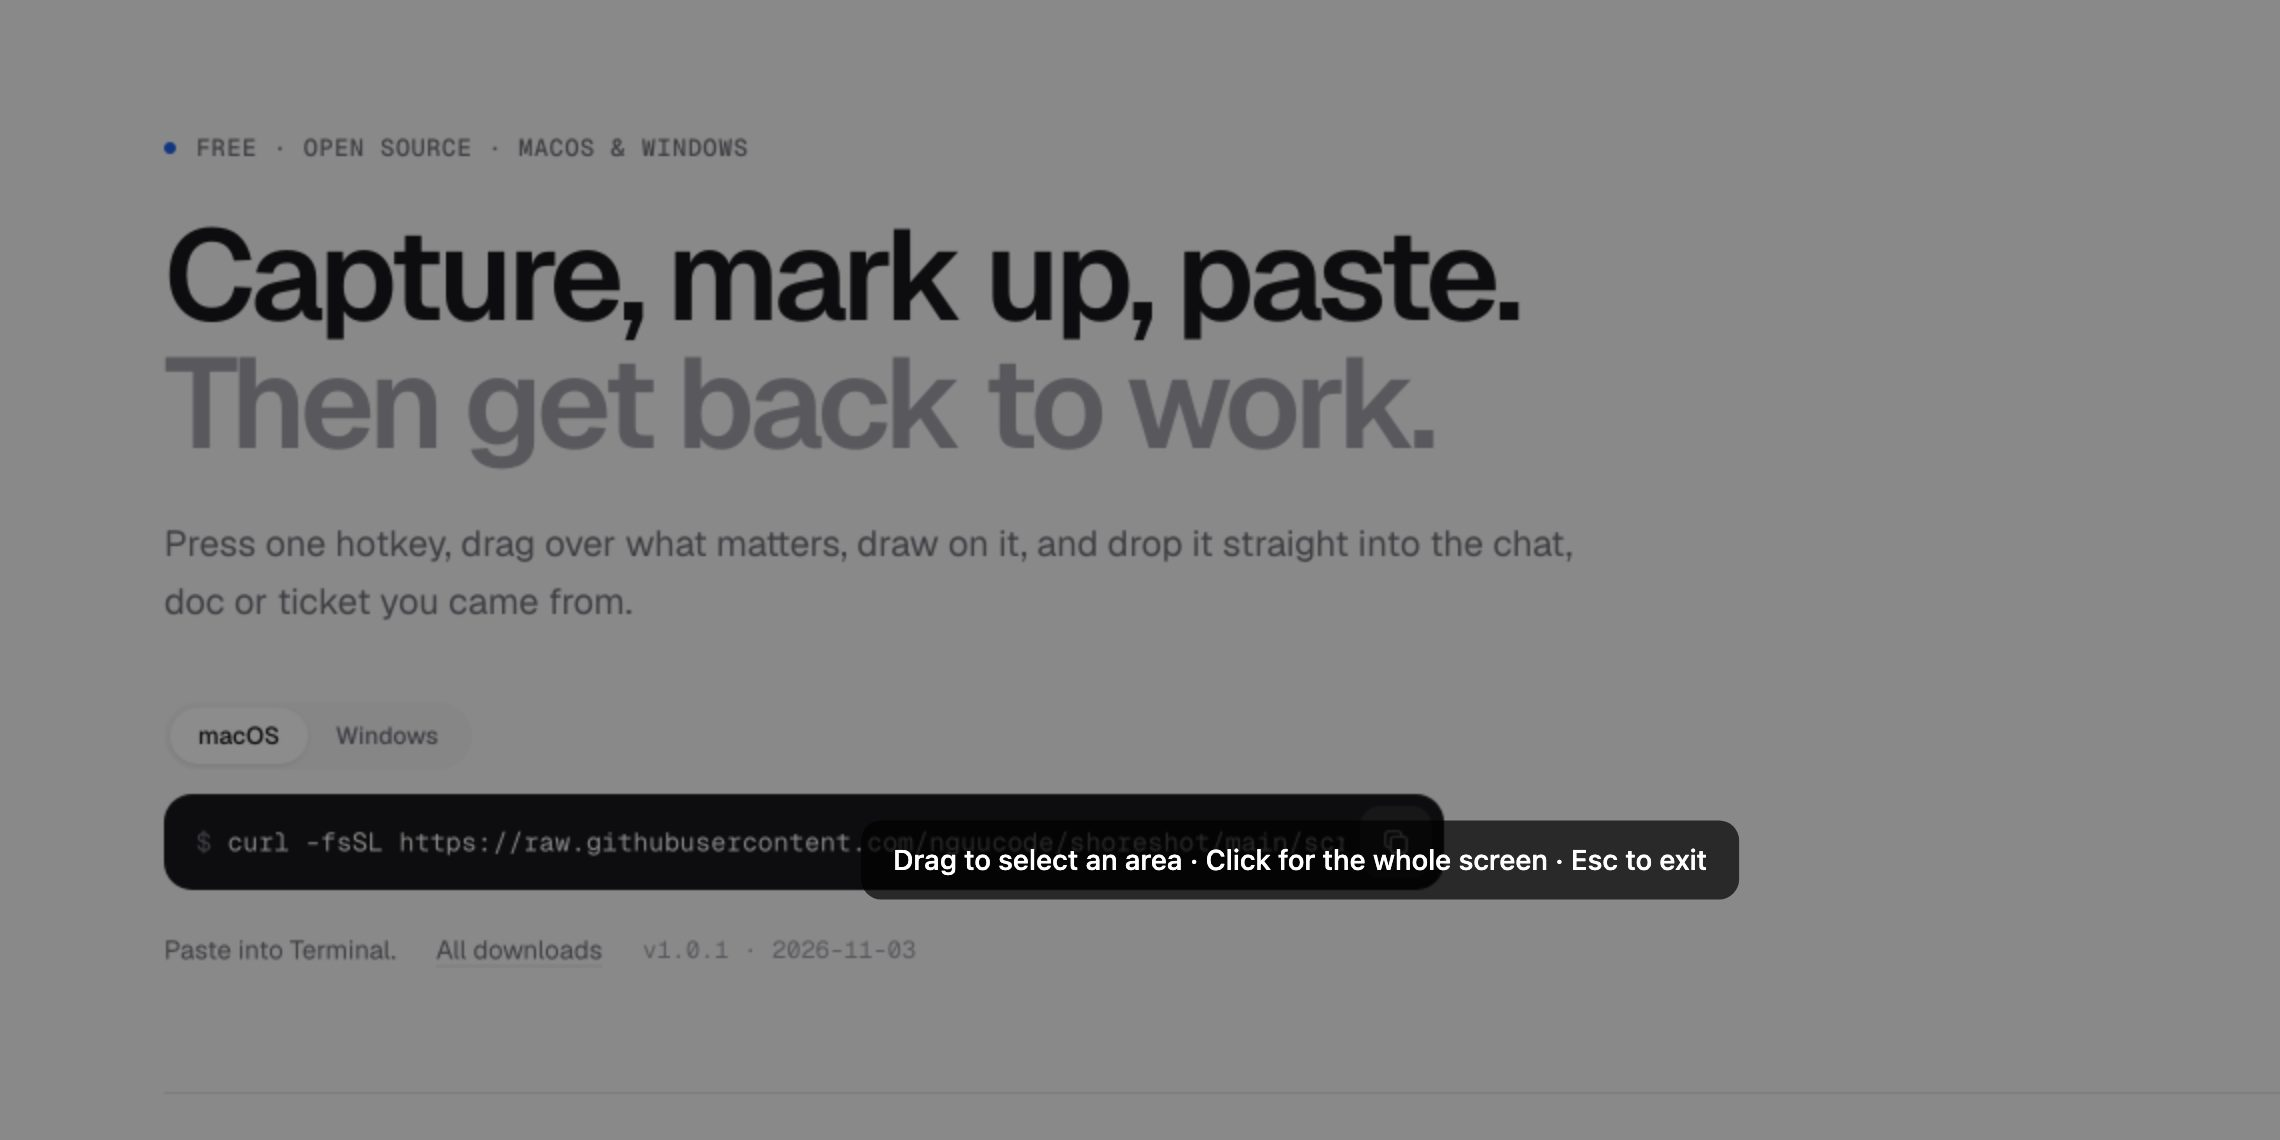
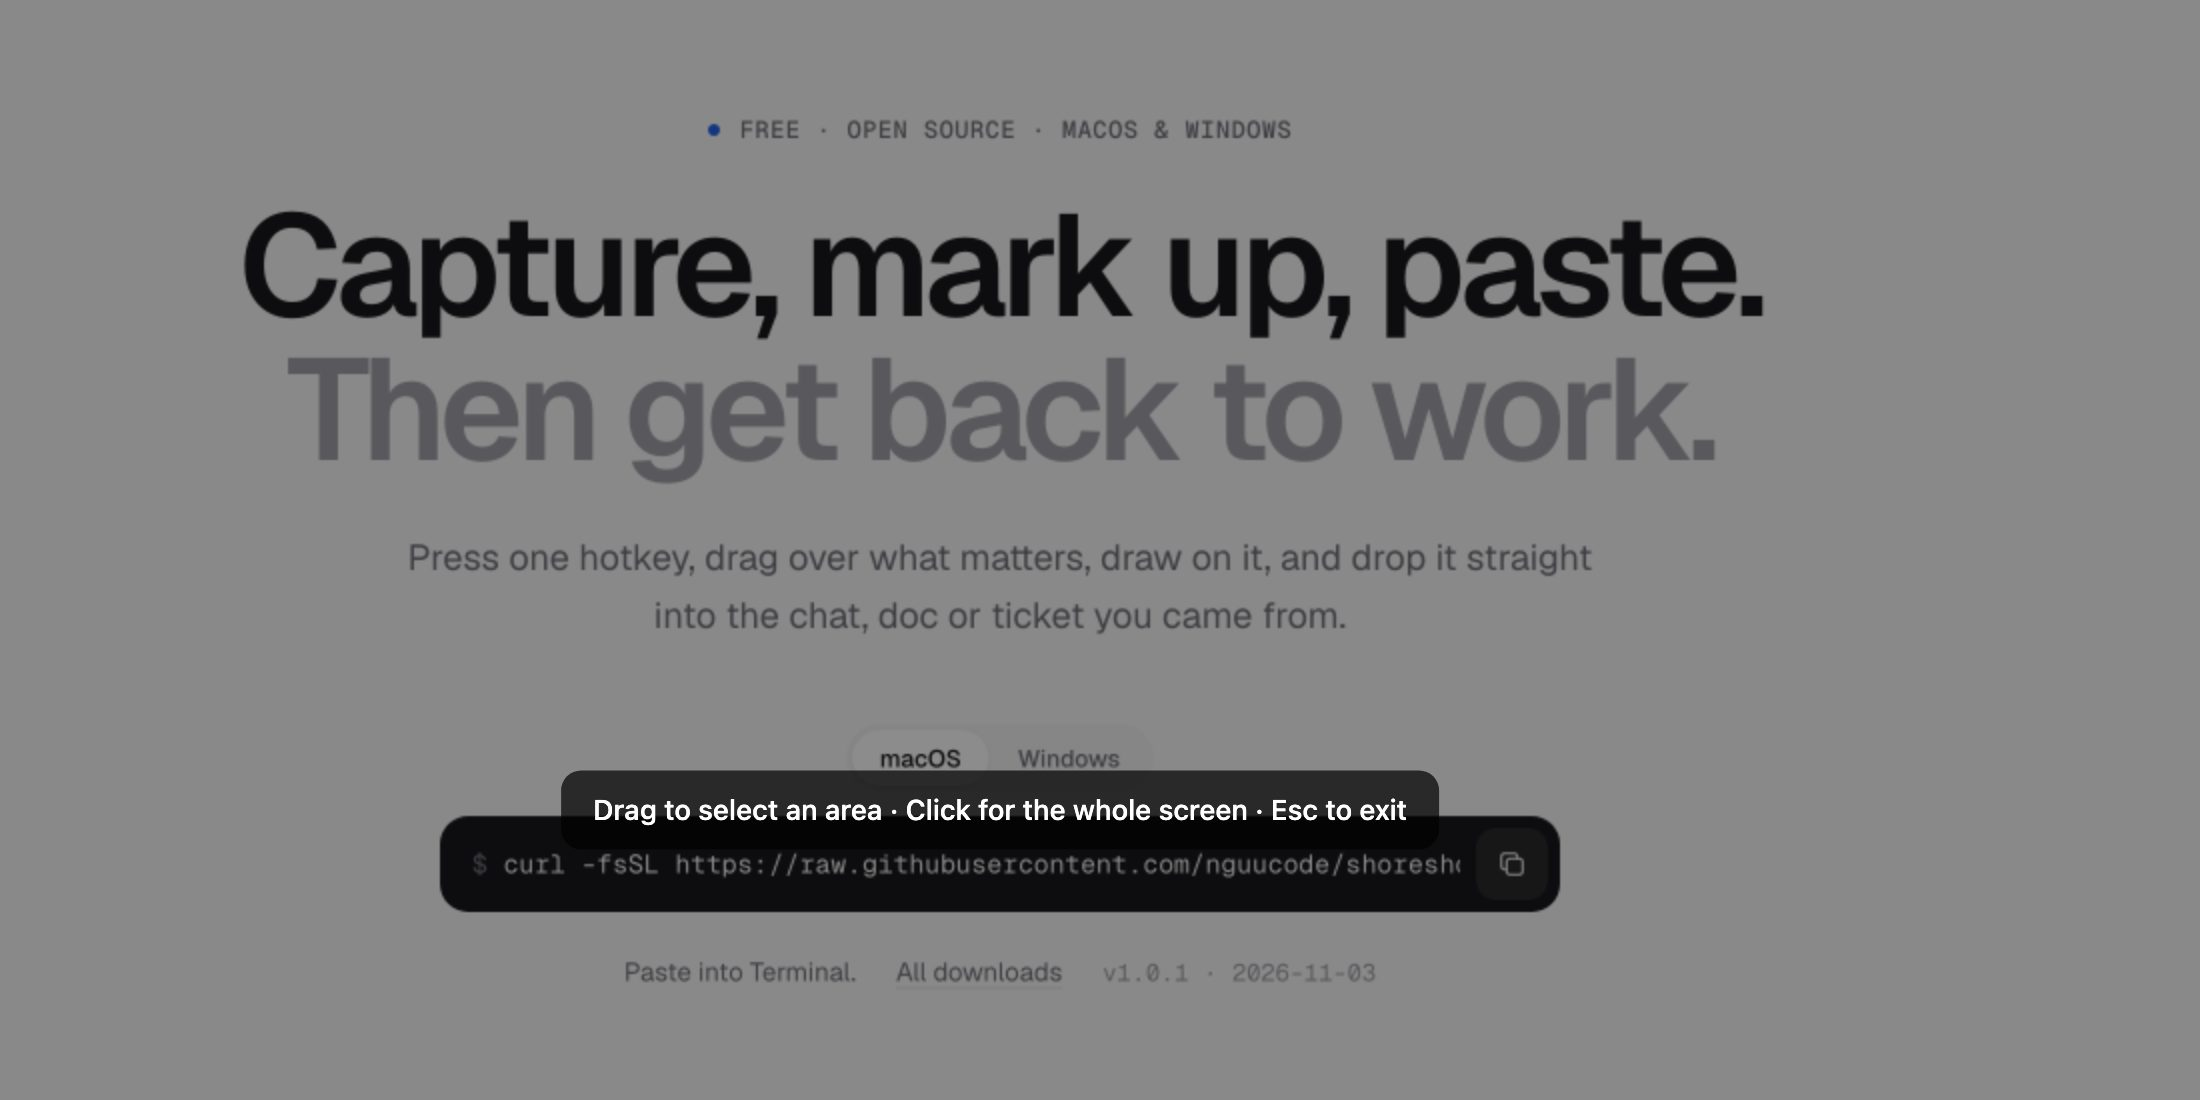
Website: centered layout

diff --git a/docs/index.html b/docs/index.html
@@ -50,19 +50,20 @@ a { color: inherit; text-decoration: none; }
 .btn svg { width: 16px; height: 16px; }
 
 /* Hero */
-.hero { display: grid; grid-template-columns: minmax(0, 5fr) minmax(0, 7fr); gap: 56px; align-items: center; padding: 72px 0 120px; }
-.eyebrow { font: 500 12px var(--mono); letter-spacing: .04em; text-transform: uppercase; color: var(--muted); display: flex; align-items: center; gap: 10px; }
+.hero { padding: 88px 0 120px; text-align: center; }
+.eyebrow { font: 500 12px var(--mono); letter-spacing: .04em; text-transform: uppercase; color: var(--muted); display: flex; justify-content: center; align-items: center; gap: 10px; }
 .eyebrow i { width: 6px; height: 6px; border-radius: 50%; background: var(--accent); box-shadow: 0 0 0 0 color-mix(in srgb, var(--accent) 50%, transparent); animation: pulse 2.4s infinite; }
 @keyframes pulse { 70% { box-shadow: 0 0 0 8px transparent; } 100% { box-shadow: 0 0 0 0 transparent; } }
-h1 { font-size: clamp(40px, 5.2vw, 64px); line-height: 1; letter-spacing: -.045em; font-weight: 600; margin: 24px 0 24px; }
-h1 span { color: var(--faint); }
-.lede { font-size: 18px; color: var(--muted); max-width: 44ch; margin: 0 0 36px; }
+h1 { font-size: clamp(40px, 6vw, 72px); line-height: 1; letter-spacing: -.045em; font-weight: 600; margin: 24px auto; }
+h1 span { display: block; color: var(--faint); }
+h1, h2 { text-wrap: balance; }
+.lede { font-size: 18px; color: var(--muted); max-width: 52ch; margin: 0 auto 40px; }
 
-.install { max-width: 480px; }
+.install { max-width: 560px; margin: 0 auto; }
 .seg { display: inline-flex; padding: 3px; border-radius: 999px; background: var(--soft); margin-bottom: 12px; }
 .seg button { font: 500 12px var(--font); height: 28px; padding: 0 14px; border: 0; border-radius: 999px; background: none; color: var(--muted); cursor: pointer; transition: background .2s, color .2s; }
 .seg button[aria-selected="true"] { background: var(--raised); color: var(--fg); box-shadow: 0 1px 2px rgba(0, 0, 0, .08); }
-.cmd { display: flex; align-items: center; gap: 8px; background: var(--code-bg); color: var(--code-fg); border-radius: 14px; padding: 6px 6px 6px 16px; box-shadow: inset 0 1px 0 rgba(255, 255, 255, .06); }
+.cmd { text-align: left; display: flex; align-items: center; gap: 8px; background: var(--code-bg); color: var(--code-fg); border-radius: 14px; padding: 6px 6px 6px 16px; box-shadow: inset 0 1px 0 rgba(255, 255, 255, .06); }
 .cmd code { flex: 1; min-width: 0; font: 13px var(--mono); overflow-x: auto; white-space: nowrap; scrollbar-width: none; }
 .cmd code::-webkit-scrollbar { display: none; }
 .cmd code::before { content: "$ "; color: #71717a; }
@@ -73,20 +74,20 @@ h1 span { color: var(--faint); }
 .copy .done { display: none; }
 .copy.ok .idle { display: none; }
 .copy.ok .done { display: block; }
-.after { display: flex; flex-wrap: wrap; align-items: center; gap: 8px 20px; margin-top: 20px; font-size: 13px; color: var(--muted); }
+.after { display: flex; flex-wrap: wrap; justify-content: center; align-items: center; gap: 8px 20px; margin-top: 20px; font-size: 13px; color: var(--muted); }
 .after a { text-decoration: underline; text-decoration-color: var(--line); text-underline-offset: 3px; }
 .after a:hover { color: var(--fg); }
 .ver { font-family: var(--mono); font-size: 12px; color: var(--faint); }
 
 /* Demo: three real frames of the overlay. Frame 1 is revealed like a selection being dragged, frame 2 fades in the annotations. */
-.stage { position: relative; margin-right: calc(-1 * max(32px, (100vw - 1200px) / 2 + 32px) + 32px); }
+.stage { position: relative; max-width: 1040px; margin: 80px auto 0; }
 .demo { position: relative; margin: 0; aspect-ratio: 2 / 1; border-radius: 18px; overflow: hidden; box-shadow: var(--shadow); background: #3f3f46; }
 .demo img { position: absolute; inset: 0; width: 100%; height: 100%; display: block; }
 .demo .f1 { animation: drag 10s infinite; }
 .demo .f2 { animation: mark 10s infinite; }
 @keyframes drag {
-  0%, 12% { clip-path: inset(8.77% 94.74% 91.23% 5.26%); opacity: 1; animation-timing-function: var(--ease); }
-  34%, 35.9% { clip-path: inset(8.77% 14.04% 10.53% 5.26%); }
+  0%, 12% { clip-path: inset(6.36% 92.73% 93.64% 7.27%); opacity: 1; animation-timing-function: var(--ease); }
+  34%, 35.9% { clip-path: inset(6.36% 16.36% 6.36% 7.27%); }
   36%, 90% { clip-path: inset(0); opacity: 1; }
   96%, 100% { clip-path: inset(0); opacity: 0; }
 }
@@ -94,11 +95,11 @@ h1 span { color: var(--faint); }
 .track { position: absolute; inset: 0; pointer-events: none; animation: track 10s infinite; }
 .track svg { position: absolute; left: 0; top: 0; width: 22px; height: 22px; margin: -11px 0 0 -11px; color: #fff; filter: drop-shadow(0 1px 1px rgba(0, 0, 0, .6)); }
 @keyframes track {
-  0%, 12% { transform: translate(5.26%, 8.77%); opacity: 1; animation-timing-function: var(--ease); }
-  34% { transform: translate(85.96%, 89.47%); opacity: 1; }
-  38%, 100% { transform: translate(85.96%, 89.47%); opacity: 0; }
+  0%, 12% { transform: translate(7.27%, 6.36%); opacity: 1; animation-timing-function: var(--ease); }
+  34% { transform: translate(83.64%, 93.64%); opacity: 1; }
+  38%, 100% { transform: translate(83.64%, 93.64%); opacity: 0; }
 }
-.steps { display: flex; gap: 6px; margin-top: 20px; font: 12px var(--mono); color: var(--faint); }
+.steps { display: flex; justify-content: center; gap: 6px; margin-top: 20px; font: 12px var(--mono); color: var(--faint); }
 .steps span { padding: 6px 10px; border-radius: 999px; transition: color .3s; }
 .steps span:nth-child(1) { animation: s1 10s infinite; }
 .steps span:nth-child(2) { animation: s2 10s infinite; }
@@ -109,9 +110,12 @@ h1 span { color: var(--faint); }
 @keyframes s3 { 0%, 45% { color: var(--faint); background: transparent; } 46%, 68% { color: var(--fg); background: var(--soft); } 70%, 100% { color: var(--faint); background: transparent; } }
 @keyframes s4 { 0%, 69% { color: var(--faint); background: transparent; } 70%, 94% { color: var(--fg); background: var(--soft); } 96%, 100% { color: var(--faint); background: transparent; } }
 
-/* Sections: label column on the left, content on the right. */
-.row { display: grid; grid-template-columns: minmax(0, 4fr) minmax(0, 8fr); gap: 56px; padding: 96px 0; border-top: 1px solid var(--line); }
-.row h2 { font-size: 32px; line-height: 1.1; letter-spacing: -.035em; font-weight: 600; margin: 12px 0 0; position: sticky; top: 96px; }
+/* Sections: centered heading above a centered column of content. */
+.row { padding: 112px 0; border-top: 1px solid var(--line); }
+.row > :first-child { text-align: center; margin-bottom: 56px; }
+.row > :last-child { max-width: 760px; margin: 0 auto; }
+.row > .list { max-width: 880px; }
+.row h2 { font-size: clamp(28px, 3.6vw, 40px); line-height: 1.1; letter-spacing: -.035em; font-weight: 600; margin: 12px 0 0; }
 .idx { font: 12px var(--mono); color: var(--faint); }
 .list { display: grid; grid-template-columns: 1fr 1fr; column-gap: 48px; }
 .list div { padding: 22px 0; border-top: 1px solid var(--line); }
@@ -137,14 +141,14 @@ details[open] summary::after { transform: rotate(-135deg) translateY(-3px); }
 details p, details pre { margin: 0 0 18px; color: var(--muted); font-size: 15px; max-width: 62ch; }
 details pre { font: 12.5px var(--mono); color: var(--fg); background: var(--soft); padding: 12px 14px; border-radius: 10px; overflow-x: auto; white-space: pre; }
 
-.cta { padding: 120px 0 128px; border-top: 1px solid var(--line); }
-.cta h2 { font-size: clamp(36px, 5vw, 56px); line-height: 1.05; letter-spacing: -.045em; font-weight: 600; margin: 0 0 32px; max-width: 14ch; }
-.cta .btns { display: flex; gap: 12px; flex-wrap: wrap; }
+.cta { padding: 128px 0 136px; border-top: 1px solid var(--line); text-align: center; }
+.cta h2 { font-size: clamp(36px, 5vw, 56px); line-height: 1.05; letter-spacing: -.045em; font-weight: 600; margin: 0 auto 36px; max-width: 16ch; }
+.cta .btns { display: flex; justify-content: center; gap: 12px; flex-wrap: wrap; }
 .btn.ghost { border: 1px solid var(--line); }
 .btn.ghost:hover { background: var(--soft); }
 
 footer { border-top: 1px solid var(--line); padding: 28px 0 40px; font-size: 13px; color: var(--muted); }
-footer .wrap { display: flex; flex-wrap: wrap; justify-content: space-between; gap: 12px 24px; }
+footer .wrap { display: flex; flex-wrap: wrap; justify-content: center; gap: 12px 24px; }
 footer nav { display: flex; gap: 20px; }
 footer a:hover { color: var(--fg); }
 
@@ -155,10 +159,10 @@ footer a:hover { color: var(--fg); }
 .reveal.in { opacity: 1; transform: none; }
 
 @media (max-width: 960px) {
-  .hero { grid-template-columns: minmax(0, 1fr); padding: 40px 0 80px; gap: 48px; }
-  .stage { margin-right: 0; }
-  .row { grid-template-columns: minmax(0, 1fr); gap: 32px; padding: 72px 0; }
-  .row h2 { position: static; }
+  .hero { padding: 56px 0 80px; }
+  .stage { margin-top: 56px; }
+  .row { padding: 80px 0; }
+  .row > :first-child { margin-bottom: 40px; }
 }
 @media (max-width: 640px) {
   .wrap { padding: 0 16px; }
@@ -223,9 +227,9 @@ footer a:hover { color: var(--fg); }
 
     <div class="stage rise" style="--i:2">
       <figure class="demo" role="img" aria-label="ShoreShot over a web page: an area is selected, marked with a red box, a green circle and red text, with the tools bar and the actions bar on its right">
-        <img src="shot-0.jpg" width="2280" height="1140" alt="">
-        <img class="f1" src="shot-1.jpg" width="2280" height="1140" alt="">
-        <img class="f2" src="shot-2.jpg" width="2280" height="1140" alt="">
+        <img src="shot-0.jpg" width="2200" height="1100" alt="">
+        <img class="f1" src="shot-1.jpg" width="2200" height="1100" alt="">
+        <img class="f2" src="shot-2.jpg" width="2200" height="1100" alt="">
         <div class="track"><svg viewBox="0 0 24 24" fill="none" stroke="currentColor" stroke-width="1.5"><path d="M12 2v20M2 12h20"/></svg></div>
       </figure>
       <div class="steps" aria-hidden="true"><span>⌘⇧X</span><span>drag</span><span>mark up</span><span>⌘V into Slack</span></div>
